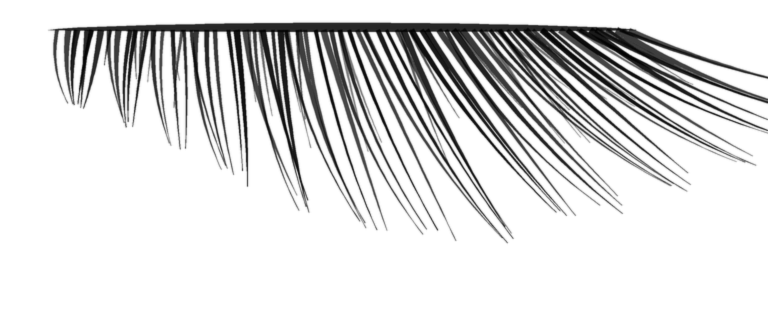
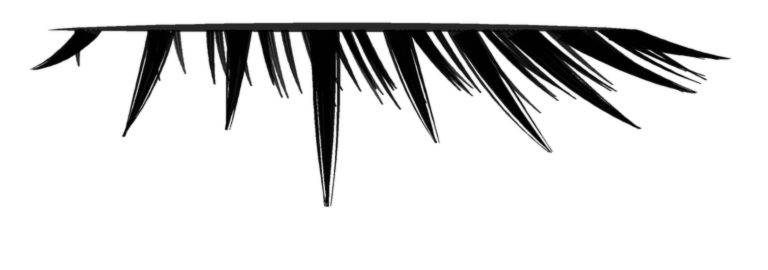
[app] 속눈썹 텍스처 anime-spike 스타일로 재생성 (v2)
낱개 스파이크가 더 또렷하게 보이도록 생성기를 다시 짜고 PNG 4장을 새로
뽑았다. up/mid/down 세 상태의 v 범위도 같이 좁혀 뿌리 위치를 맞췄다.

Changed region(s): [[0.0312, 0.0593, 1.0, 0.7704]]

diff --git a/scripts/gen_lash_textures.py b/scripts/gen_lash_textures.py
@@ -109,9 +109,15 @@ class Canvas:
             s = i / n
             hw = max(0.25 * SS, w0 * PPU * SS * (1 - s) ** 0.9)  # 뿌리 굵고 끝 뾰족
             # 픽셀 좌표는 y 가 뒤집혀 있어 법선의 y 부호를 바꾼다
-            left.append((x + nx * hw, y - ny * hw))
-            right.append((x - nx * hw, y + ny * hw))
+            left.append(self.keep_side(x + nx * hw, y - ny * hw, sign))
+            right.append(self.keep_side(x - nx * hw, y + ny * hw, sign))
         self.add(left + right[::-1], alpha)
+
+    def keep_side(self, x: float, y: float, sign: int) -> tuple[float, float]:
+        """가닥이 뿌리 선(v=0) 반대편으로 삐져나오지 않게 한다.
+        기울어진 굵은 가닥의 뭉툭한 밑면이 눈 쪽으로 튀어나왔다."""
+        root = self.v_max * PPU * SS
+        return (x, min(y, root + 0.5 * SS)) if sign > 0 else (x, max(y, root - 0.5 * SS))
 
     def root_band(self, u0: float, u1: float, thick: float, alpha: float, sign: int = 1) -> None:
         """뿌리 선을 따라 얇게 진한 띠 — 점막을 채운 듯한 느낌. 양끝은 가늘어진다."""
@@ -132,134 +138,157 @@ class Canvas:
         img.save(OUT / name, optimize=True)
 
 
-def clumps(rnd: random.Random, u0: float, u1: float, n: int, size: tuple[int, int]) -> list[list[float]]:
-    """u0~u1 에 n 가닥을 놓고 size 개씩 뭉치로 묶는다 (가닥 u 값 목록의 목록)."""
-    us = sorted(lerp(u0, u1, (i + 0.5) / n) + rnd.uniform(-0.35, 0.35) * (u1 - u0) / n for i in range(n))
-    out, i = [], 0
-    while i < len(us):
-        k = rnd.randint(*size)
-        out.append(us[i : i + k])
-        i += k
-    return out
+# ── 디자인 v2 (2026-09-30) ──
+# 참고: 사용자 제공 "Anime Extensions — Round Design + Under Lash" 사진 2장, IMG_2509
+# 뭉친 스파이크(뿌리는 벌어지고 끝은 한 점으로 모이는 가닥 묶음) + 사이사이 가는 잔털.
+# 윗속눈썹: 가운데(동공 위)가 가장 길고 곧게 서며, 눈꼬리 쪽 1/3 은 긴 스파이크가 촘촘하게 바깥으로 쓸린다.
+#           눈 앞머리는 안쪽으로 휘는 짧은 스파이크 하나.
+# 아랫속눈썹: 고르게 떨어진 작은 스파이크 + 가는 잔털.
+# (u, 길이, 기울기°, 끝 휨°, 가닥 수, 뿌리 폭) — 길이·폭은 눈 폭 단위, 기울기는 바깥(+u) 쪽이 +
+# v3 (2026-09-30 피드백: "너무 길다, 더 덩어리지게") — 길이 약 70%, 뭉치당 가닥 +2, 뿌리 폭은 좁게
+UPPER_SPIKES = [
+    (0.09, 0.11, -38, -28, 5, 0.03),
+    (0.21, 0.18, -14, -10, 6, 0.035),
+    (0.34, 0.16, -5, -4, 5, 0.03),
+    (0.48, 0.28, 1, 0, 8, 0.04),
+    (0.60, 0.19, 16, 6, 6, 0.035),
+    (0.71, 0.24, 30, 10, 7, 0.04),
+    (0.80, 0.25, 44, 12, 7, 0.04),
+    (0.88, 0.23, 57, 12, 7, 0.035),
+    (0.96, 0.19, 70, 10, 6, 0.03),
+]
+LOWER_SPIKES = [
+    (u, 0.07 + 0.04 * u, -12 + 45 * u, 4, 4, 0.018) for u in (0.2, 0.32, 0.44, 0.56, 0.68, 0.79, 0.9)
+]
 
 
-def upper(
-    name: str,
-    v_min: float,
-    v_max: float,
+def spike(
+    cv: Canvas,
+    rnd: random.Random,
+    u: float,
+    length: float,
+    theta: float,
+    curl: float,
+    k: int,
+    spread: float,
     *,
     sign: int,
+    w0: float,
+    alpha: float,
+) -> None:
+    """뿌리를 spread 만큼 벌려 k 가닥을 놓고, 끝을 한 점으로 모은다 — 애니 속눈썹의 뾰족한 뭉치."""
+    r = math.radians(theta + curl * 0.6)
+    tip = (u + math.sin(r) * length, sign * math.cos(r) * length)
+    for i in range(k):
+        f = i / (k - 1) - 0.5 if k > 1 else 0.0
+        cv.strand(
+            u + f * spread * 1.1,
+            theta + rnd.uniform(-3, 3),
+            length * rnd.uniform(0.96, 1.02),
+            curl,
+            w0 * rnd.uniform(0.85, 1.15) * (1.2 - abs(f) * 0.6),  # 가운데 가닥이 굵다
+            alpha * rnd.uniform(0.92, 1.0),
+            (tip[0] + rnd.uniform(-0.004, 0.004), tip[1]),
+            0.9,
+            sign,
+        )
+    # 가운데 굵은 심 — 참고 사진의 뭉치는 끝까지 한 덩어리로 진하고, 양옆에만 낱가닥이 벌어진다
+    cv.strand(u, theta, length * 0.98, curl, w0 * (2.8 + 0.35 * k), alpha, tip, 1.0, sign)
+
+
+def wisps(
+    cv: Canvas,
+    rnd: random.Random,
     n: int,
+    *,
+    sign: int,
     len_fn,
     theta_fn,
     curl: float,
-    pull_k: float,
-    band: bool,
-    seed: int,
-    w0: float = 0.0042,
+    w0: float,
+    alpha: tuple[float, float],
+    u_range: tuple[float, float] = (0.03, 1.0),
+) -> None:
+    """스파이크 사이 잔털. 낱가닥이 아니라 3가닥씩 끝을 모은 작은 뭉치로 — 마스카라 바른 덩어리 느낌.
+    눈꼬리 쪽이 더 촘촘하다 (u 를 치우친 분포로 뽑는다). n = 가닥 수."""
+    for _ in range(max(1, n // 3)):
+        u = lerp(u_range[0], u_range[1], rnd.random() ** 0.8)
+        th, length, cu = (
+            theta_fn(u) + rnd.uniform(-6, 6),
+            len_fn(u) * rnd.uniform(0.75, 1.1),
+            curl * rnd.uniform(0.6, 1.2),
+        )
+        r = math.radians(th + cu * 0.6)
+        tip = (u + math.sin(r) * length, sign * math.cos(r) * length)
+        a = rnd.uniform(*alpha)
+        for f in (-1, 0, 1):
+            cv.strand(u + f * 0.004, th, length, cu, w0 * (1.6 if f == 0 else 1.0), a, tip, 0.8, sign)
+
+
+def upper_tex(
+    name: str, v_min: float, v_max: float, *, sign: int, scale: float, fan: float, seed: int, wisp_n: int
 ) -> dict:
+    """윗속눈썹 한 장. scale = 길이 배율(정면에서 짧아 보이는 정도),
+    fan = 바깥 쪽으로 더 눕히는 각(°, 눈꼬리일수록 크게)."""
     rnd = random.Random(seed)
     cv = Canvas(v_min, v_max)
-    if band:
-        cv.root_band(0.02, 1.0, 0.012, 0.85, sign=-sign)
-    for group in clumps(rnd, 0.03, 1.0, n, (2, 3) if n < 30 else (3, 6)):
-        um = sum(group) / len(group)
-        L, th = len_fn(um), theta_fn(um)
-        r = math.radians(th + curl * 0.7)
-        tip = (um + math.sin(r) * L * 0.95, sign * math.cos(r) * L * 0.95)
-        for u in group:
-            cv.strand(
-                u,
-                theta_fn(u) + rnd.uniform(-6, 6),
-                len_fn(u) * rnd.uniform(0.8, 1.08),
-                curl,
-                w0 * rnd.uniform(0.6, 1.3),
-                rnd.uniform(0.72, 0.96),
-                tip,
-                pull_k,
-                sign,
-            )
-    # 뭉치 사이 짧은 잔털 — 빈틈을 메운다
-    for _ in range(n // 2):
-        u = rnd.uniform(0.05, 0.98)
-        cv.strand(
-            u,
-            theta_fn(u) + rnd.uniform(-10, 10),
-            len_fn(u) * rnd.uniform(0.35, 0.6),
-            curl * 0.5,
-            w0 * 0.6,
-            rnd.uniform(0.5, 0.75),
-            sign=sign,
+    cv.root_band(0.02, 1.0, 0.012, 0.85, sign=-sign)
+    fan_at = lambda u: fan * max(0.0, u - 0.3) / 0.7  # noqa: E731
+    wisps(
+        cv,
+        rnd,
+        wisp_n,
+        sign=sign,
+        curl=10,
+        w0=0.0026,
+        alpha=(0.7, 0.92),
+        len_fn=lambda u: scale * (0.07 + 0.1 * smooth(0.0, 0.9, u)),
+        theta_fn=lambda u: lerp(-10, 62, u**1.25) + fan_at(u),
+    )
+    for u, length, theta, curl, k, spread in UPPER_SPIKES:
+        spike(
+            cv, rnd, u, length * scale, theta + fan_at(u), curl, k, spread, sign=sign, w0=0.0036, alpha=0.95
         )
+    cv.save(name)
+    return {"file": name, "vMin": v_min, "vMax": v_max}
+
+
+def lower_tex(name: str, v_min: float, v_max: float, *, seed: int) -> dict:
+    rnd = random.Random(seed)
+    cv = Canvas(v_min, v_max)
+    wisps(
+        cv,
+        rnd,
+        26,
+        sign=1,
+        curl=3,
+        w0=0.002,
+        alpha=(0.4, 0.65),
+        u_range=(0.12, 0.97),
+        len_fn=lambda u: 0.04 + 0.03 * u,
+        theta_fn=lambda u: lerp(-15, 40, u),
+    )
+    for u, length, theta, curl, k, spread in LOWER_SPIKES:
+        spike(cv, rnd, u, length, theta, curl, k, spread, sign=1, w0=0.0019, alpha=0.9)
     cv.save(name)
     return {"file": name, "vMin": v_min, "vMax": v_max}
 
 
 def main() -> None:
     OUT.mkdir(parents=True, exist_ok=True)
-    peak = lambda u, lo, hi: lo + (hi - lo) * smooth(0.0, 0.62, u) - (hi - lo) * 0.18 * smooth(0.88, 1.0, u)  # noqa: E731
     tex = {
-        # 눈 뜸: 위로 선다. 정면에서 보면 앞으로 뻗은 만큼 짧아 보인다.
-        # 앞머리는 안쪽으로, 눈꼬리는 바깥으로 펼쳐진다
-        "up": upper(
-            "upper-up.png",
-            -0.05,
-            0.42,
-            sign=1,
-            n=62,
-            seed=11,
-            curl=14,
-            pull_k=0.62,
-            band=True,
-            len_fn=lambda u: peak(u, 0.10, 0.34),
-            theta_fn=lambda u: lerp(-14, 58, u**1.35),
-        ),
-        # 반쯤 감음: 속눈썹이 카메라 쪽을 향해 짧게 보이고, 옆으로 퍼진다
-        "mid": upper(
-            "upper-mid.png",
-            -0.22,
-            0.2,
-            sign=1,
-            n=54,
-            seed=12,
-            curl=22,
-            pull_k=0.55,
-            band=True,
-            len_fn=lambda u: peak(u, 0.06, 0.17),
-            theta_fn=lambda u: lerp(-30, 102, u**1.2),
-        ),
-        # 눈 감음: 아래로 늘어진다 (IMG_2509 관찰 — 뭉친 가닥, 가운데~바깥이 길고 눈꼬리는 옆으로 쓸림)
-        "down": upper(
-            "upper-down.png",
-            -0.5,
-            0.05,
-            sign=-1,
-            n=66,
-            seed=13,
-            curl=10,
-            pull_k=0.66,
-            band=True,
-            len_fn=lambda u: peak(u, 0.12, 0.42),
-            theta_fn=lambda u: lerp(-12, 68, u**1.5),
-        ),
-        # 아랫속눈썹: 짧고 성기다. 눈 감음 때는 윗속눈썹에 가려 그리지 않는다
-        "lower": upper(
-            "lower.png",
-            -0.04,
-            0.18,
-            sign=1,
-            n=24,
-            seed=14,
-            curl=3,
-            pull_k=0.45,
-            band=False,
-            w0=0.0032,
-            len_fn=lambda u: 0.05 + 0.07 * smooth(0.1, 0.85, u),
-            theta_fn=lambda u: lerp(-12, 40, u),
-        ),
+        # 눈 뜸: 위로 선다 (참고 사진 그대로)
+        "up": upper_tex("upper-up.png", -0.05, 0.36, sign=1, scale=1.0, fan=0, seed=21, wisp_n=120),
+        # 반쯤 감음: 카메라 쪽을 향해 짧아 보이고, 눈꼬리 쪽이 옆으로 더 눕는다
+        "mid": upper_tex("upper-mid.png", -0.16, 0.2, sign=1, scale=0.5, fan=35, seed=22, wisp_n=100),
+        # 눈 감음: 같은 스파이크가 아래로 늘어진다 (IMG_2509 — 촘촘하게, 정면에서 안 줄어든 길이)
+        "down": upper_tex("upper-down.png", -0.4, 0.05, sign=-1, scale=1.05, fan=0, seed=23, wisp_n=140),
+        # 아랫속눈썹: 고르게 떨어진 작은 스파이크. 눈 감음 때는 그리지 않는다
+        "lower": lower_tex("lower.png", -0.04, 0.2, seed=24),
     }
     meta = {
-        "version": 1,
+        "version": 2,
+        "design": "anime-spike",
         "note": (
             "scripts/gen_lash_textures.py 가 만든다. 규격은 그 파일 머리말 참고. "
             "그림을 바꿀 땐 같은 u/v 범위를 지킨다."
